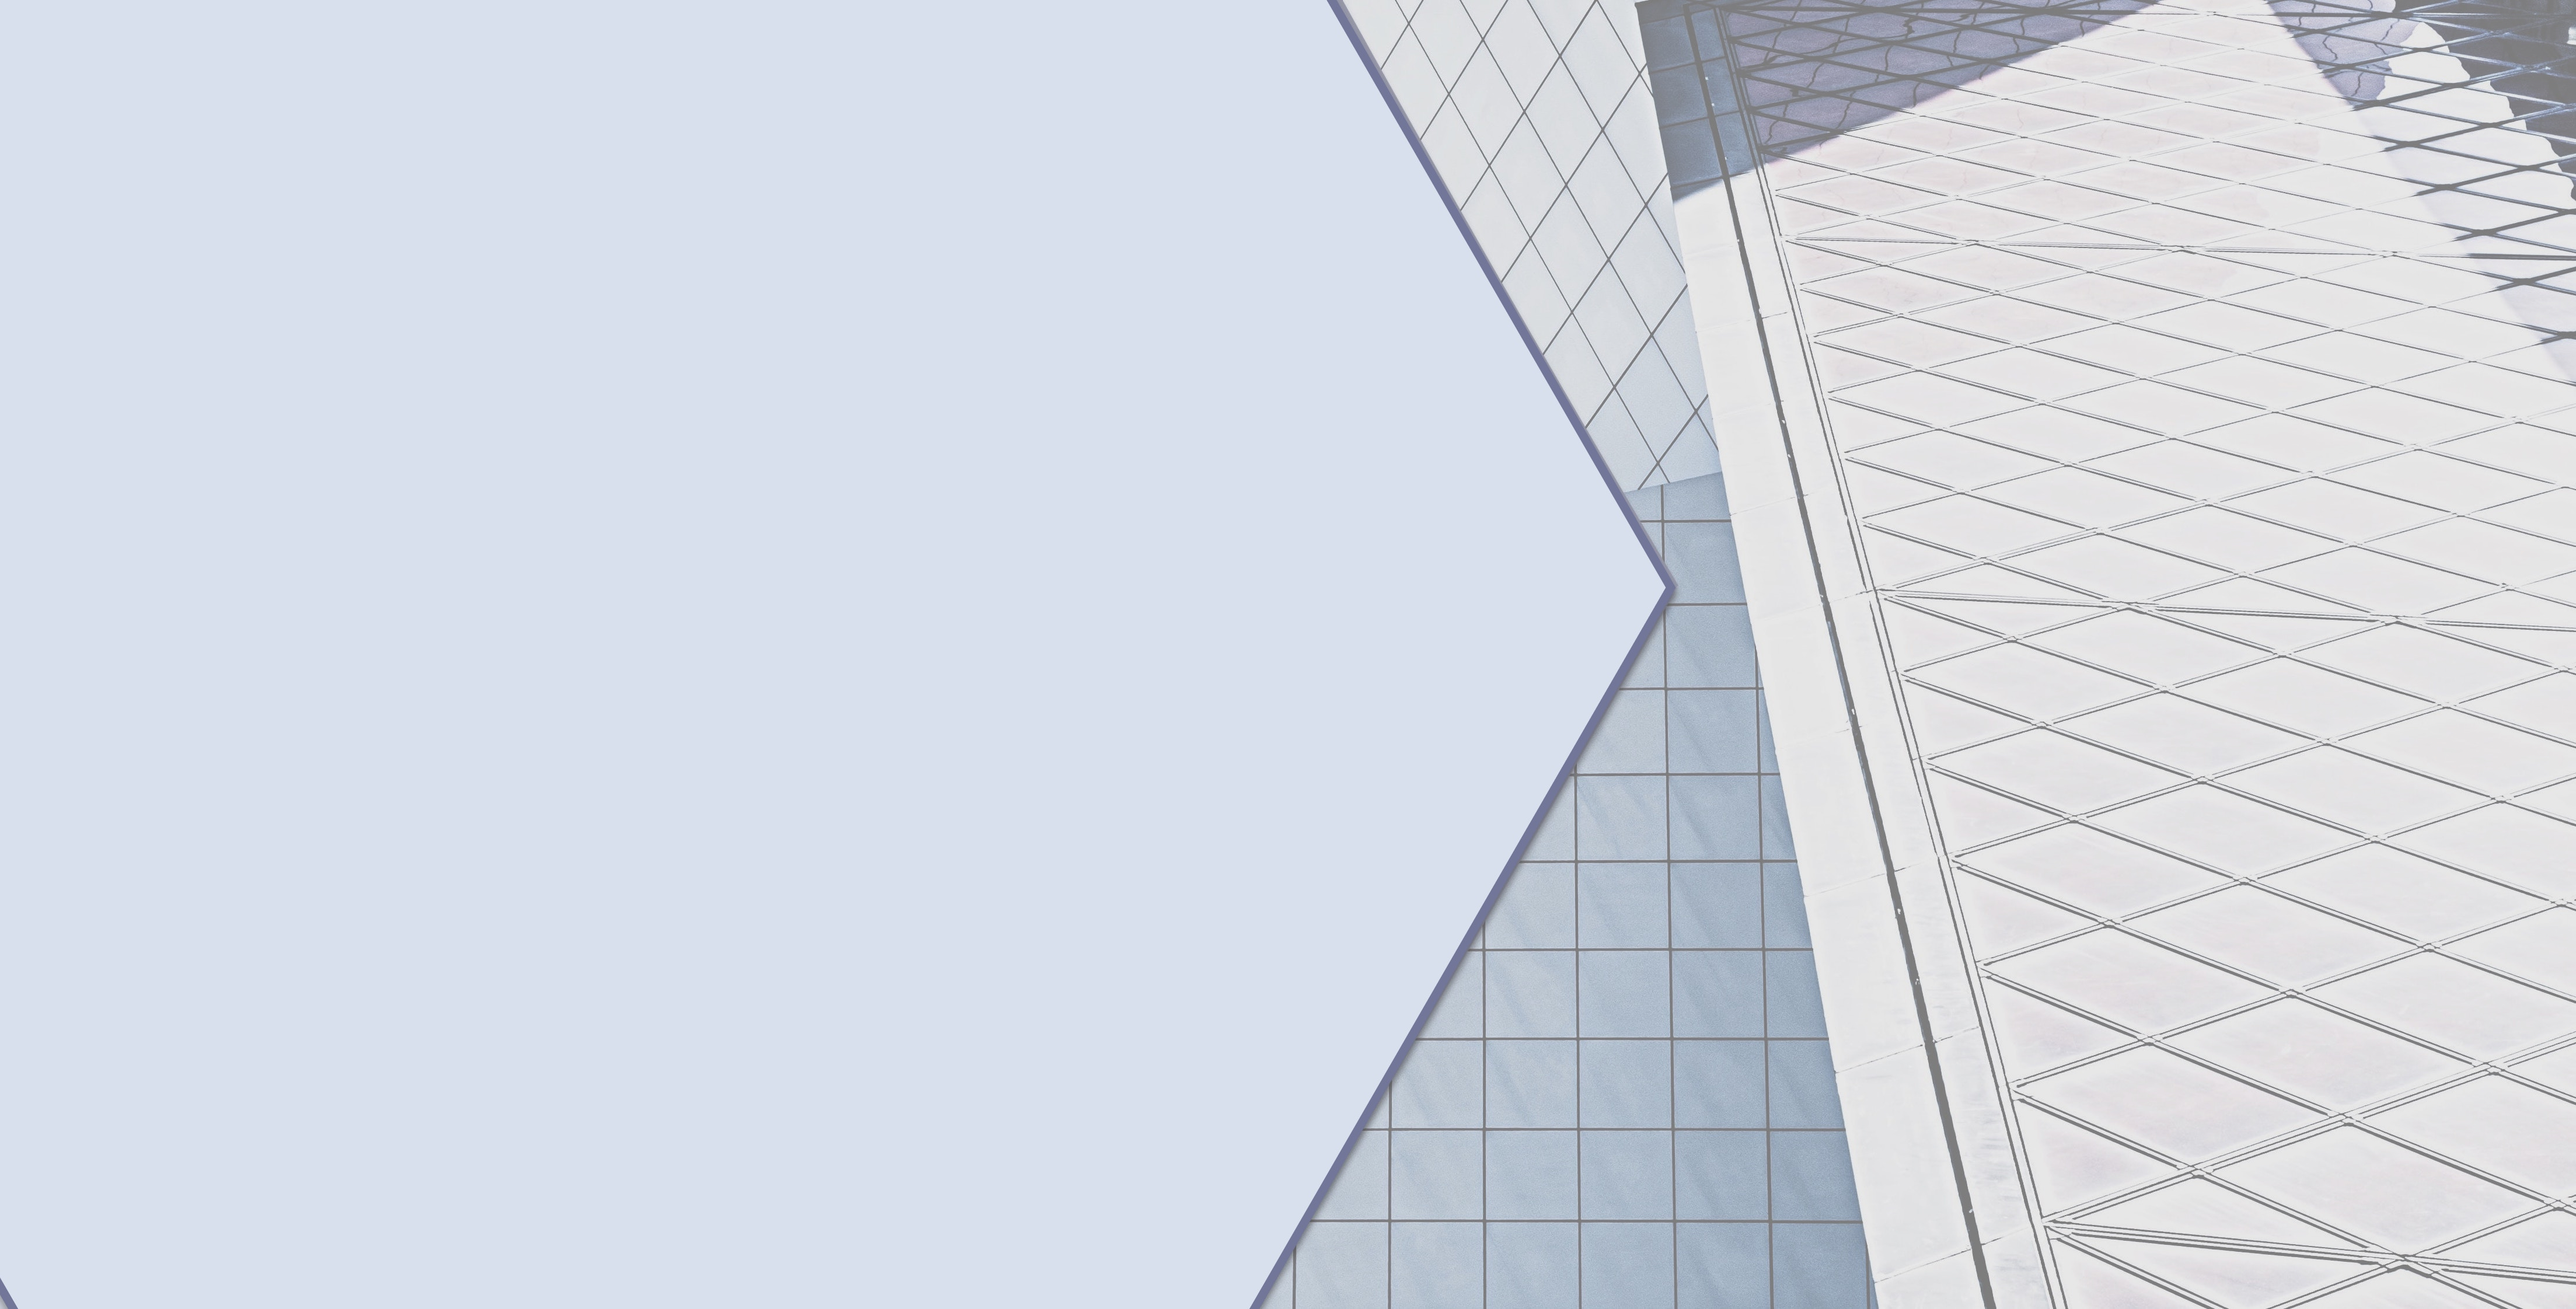
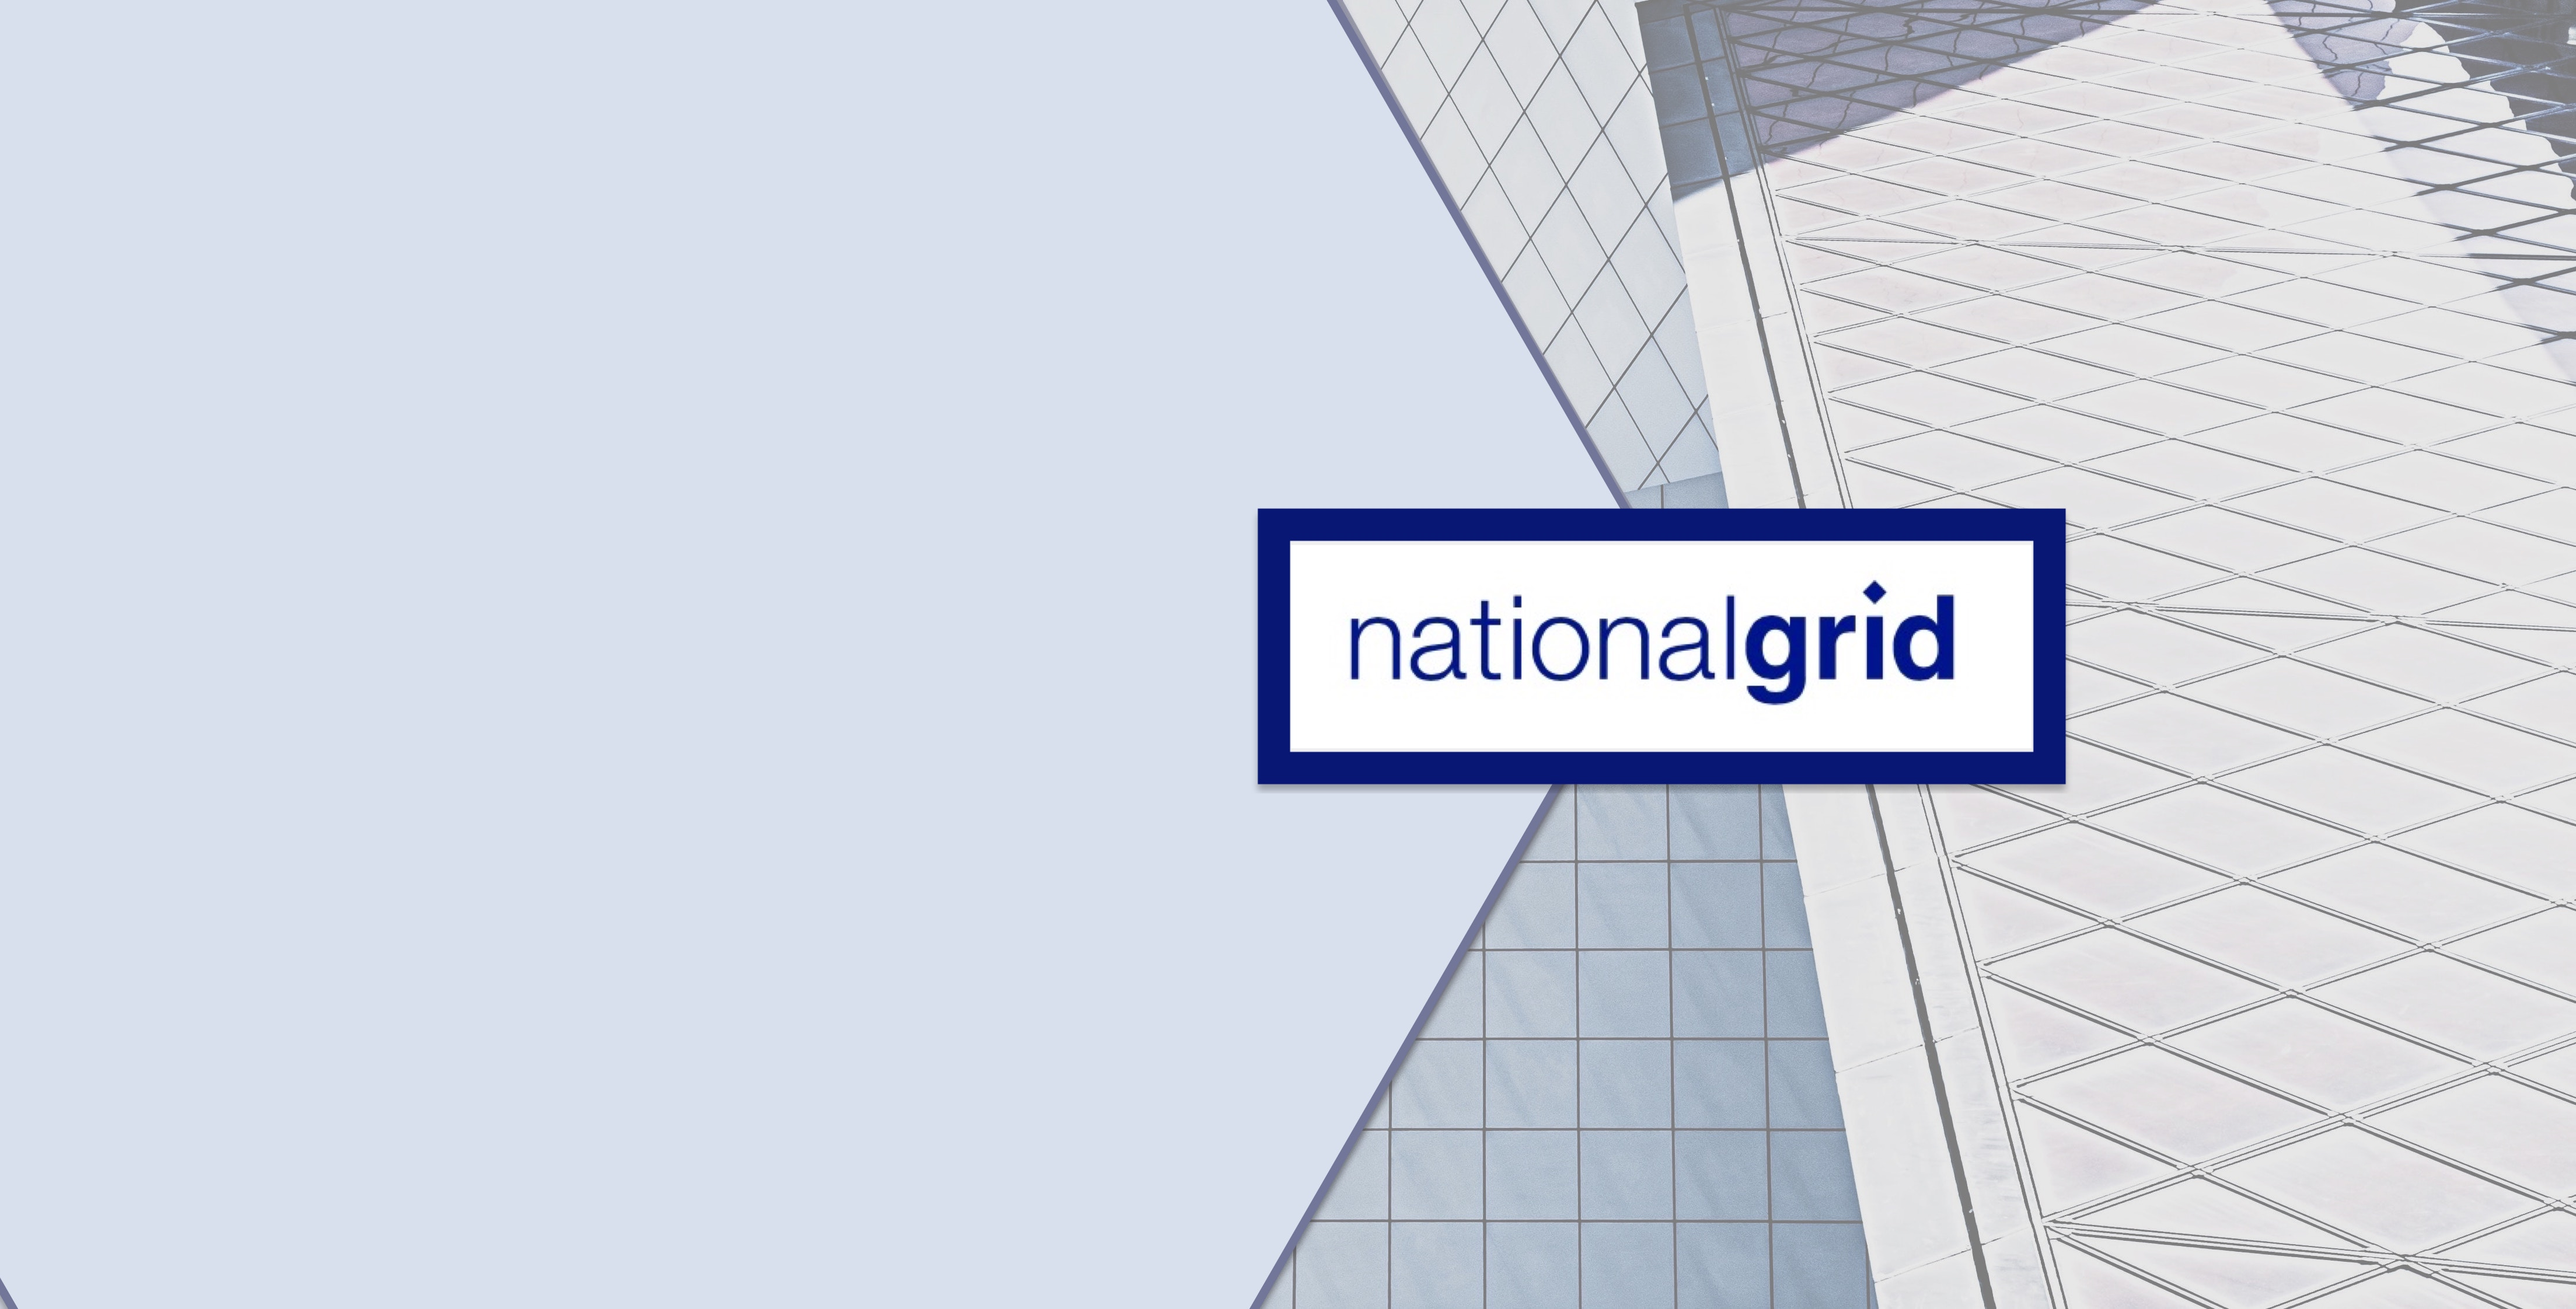
added national grid info

Changed region(s): [[0.4656, 0.3745, 0.807, 0.6242]]

diff --git a/NationalGrid.html b/NationalGrid.html
@@ -44,7 +44,7 @@
 
                     <div class="col-4 col-12-medium">
                         <!-- Sidebar -->
-                        <section id="sidebar">
+                        <section id="sidebar special fade-down">
                             <section>
                                 <a href="#" class="image fit"><img src="images/NationalGrid.jpg" alt="" /></a>
                                 <h3>Tech Stack</h3>
@@ -69,43 +69,46 @@
                         <!-- Content -->
                         <section id="content">
                             <h3>My Role</h3>
-                            <p>Frontend developer and designer</p>
-                            <p>During the beginning of the project, I designed the mockups and chose the color palette.
-                                Some of
-                                features I was in charge was the posting a recipe, which was done by using a form,
-                                searching for
-                                a recipe by filtering through the name of the recipe, landing page/responsive navbar,
-                                and profile page.
+                            <p>Frontend Application</p>
+                            <p> I wanted to redesign the currect login and register page for National Grid, because I
+                                believed that those pages were outdated. In the proces of doing so, I wanted to
+                                familirse with flexbox and SASS. However, during the process I eventually ended up
+                                adding more logic like user authenticaton, state persistance, etc.
                             </p>
                             <hr />
                             <h3>Project Difficulties</h3>
-                            <p>The original idea of the project was to build a fun and interactive way to post a recipe
-                                animation,etc. A
-                                example
-                                of our inspiration was <a href>something</a></p>. Scaling down the project was
-                            something we had trouble with,
-                            because as a team we had to decide which features were the most important. Learning redux
-                            for the first time
-                            came with a difficulty in the beginning.
+                            <p>
+                                Some of the Difficulties I faced was state managemnt, private routes, and state
+                                persistence. I wanted a way
+                                to check if the user was logged in, and if so, change the Navigation bar, and vice
+                                versa. Simarlarly, I wanted to prevent the user from accessing dashboard and profile
+                                route if the user was not logged in. Lastly, because the redux store gets return to its
+                                inital state upon page refresh, i wanted a wata to persist the state.
+                            </p>
 
                             <hr />
                             <h3>Project Solutions</h3>
-                            <p>Scaling down the project made the application way easier to do given the time
-                                constrainst. To learn redux, I
-                                looked tutorials on youtube which helped in understanding core concepts.</p>
+                            <p> One way I managed state was by using Redux. Although there was alot of boilerplate
+                                code, I found that it was easy to grasp and good to familarize with. In case, the
+                                project was to scale, using redux is beneficial. I solved the private route issue, by
+                                creating a PrivateRoute function and passing isLogged(state in redux) as a prop to
+                                PrivateRoute. Finally, I persisted redux state to local storage by writing two
+                                function, one which saves the state to local storage, and the other which load the
+                                state from local storage. </p>
                             <hr />
                             <h3>Application Features</h3>
                             <ul>
                                 <li>Registration</li>
                                 <li>Login</li>
                                 <li>User authentication</li>
-                                <li>Profile</li>
-                                <li>Search for a recipe by category </li>
-                                <li>Post a recipe</li>
+                                <li>Profile (change user info)</li>
+                                <li>Dashboard (Pay Bill)</li>
                             </ul>
                             <hr>
-                            <h3>What's missing?</h3>
-                            <p>Responsivness throughtout the whole application and adding a comments/rating feature</p>
+                            <h3>What's Missing?</h3>
+                            <p> The Application only contains Login, Register, Dashboard, and Profile components. It
+                                can scale to other conponents like View bill, stop and start service, etc, given the
+                                resources. </p>
                         </section>
 
                     </div>
